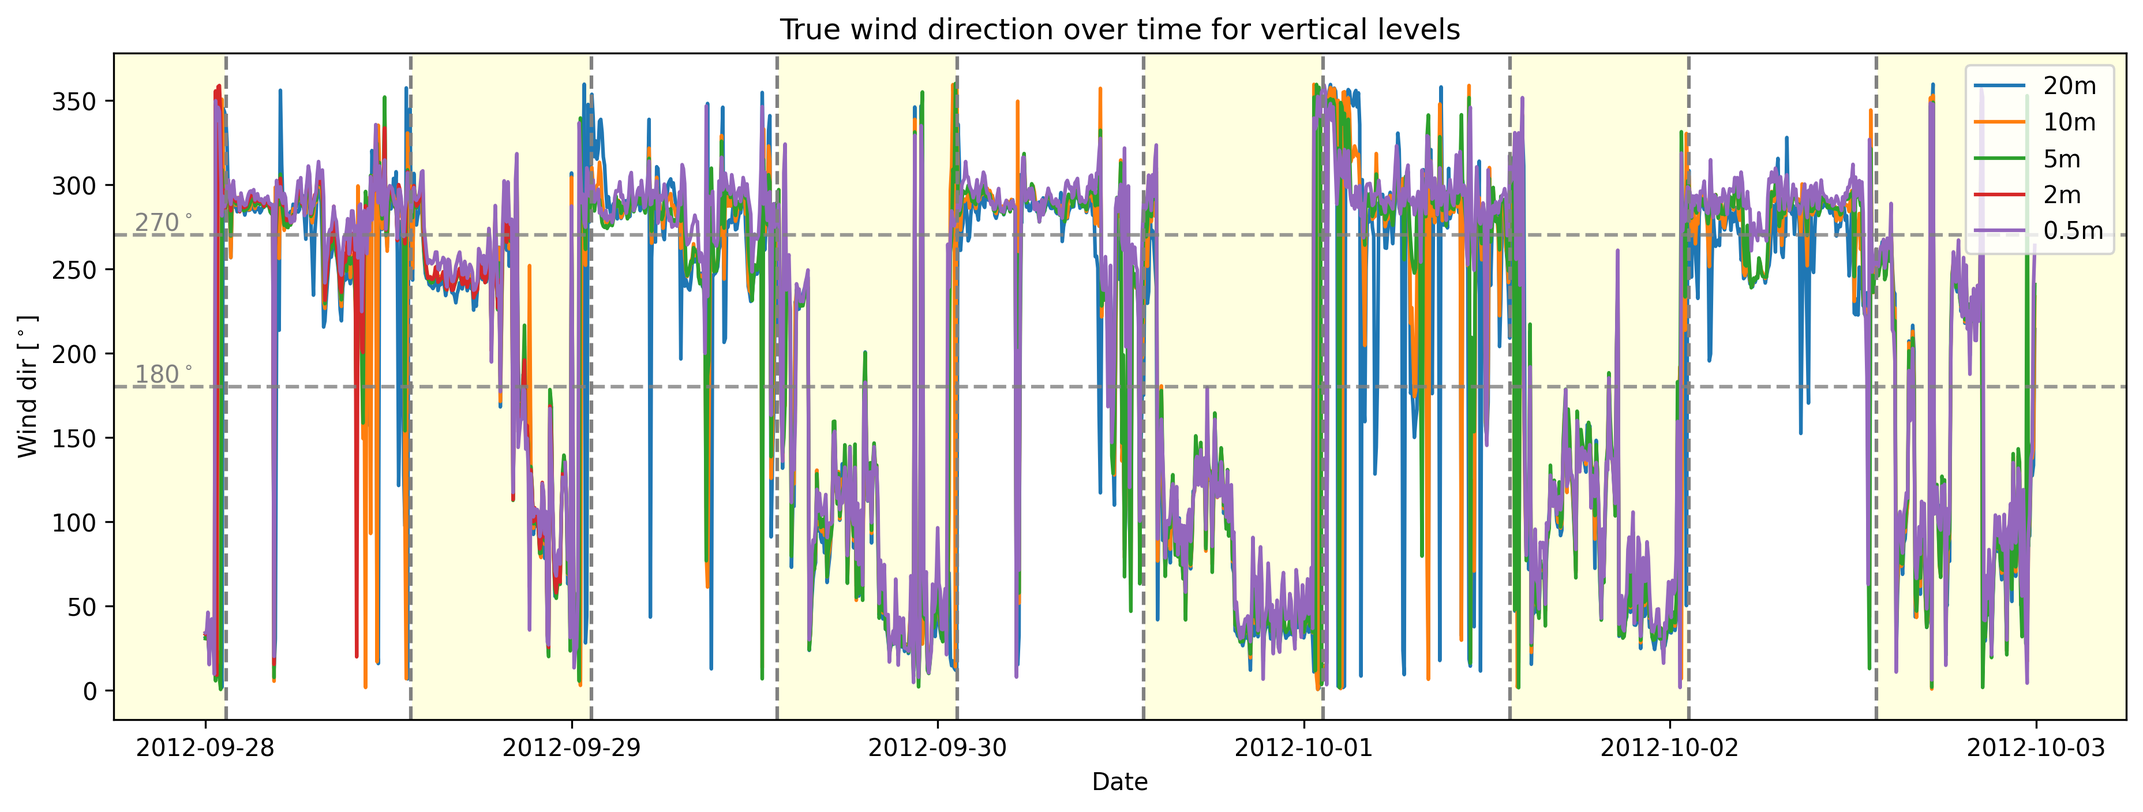
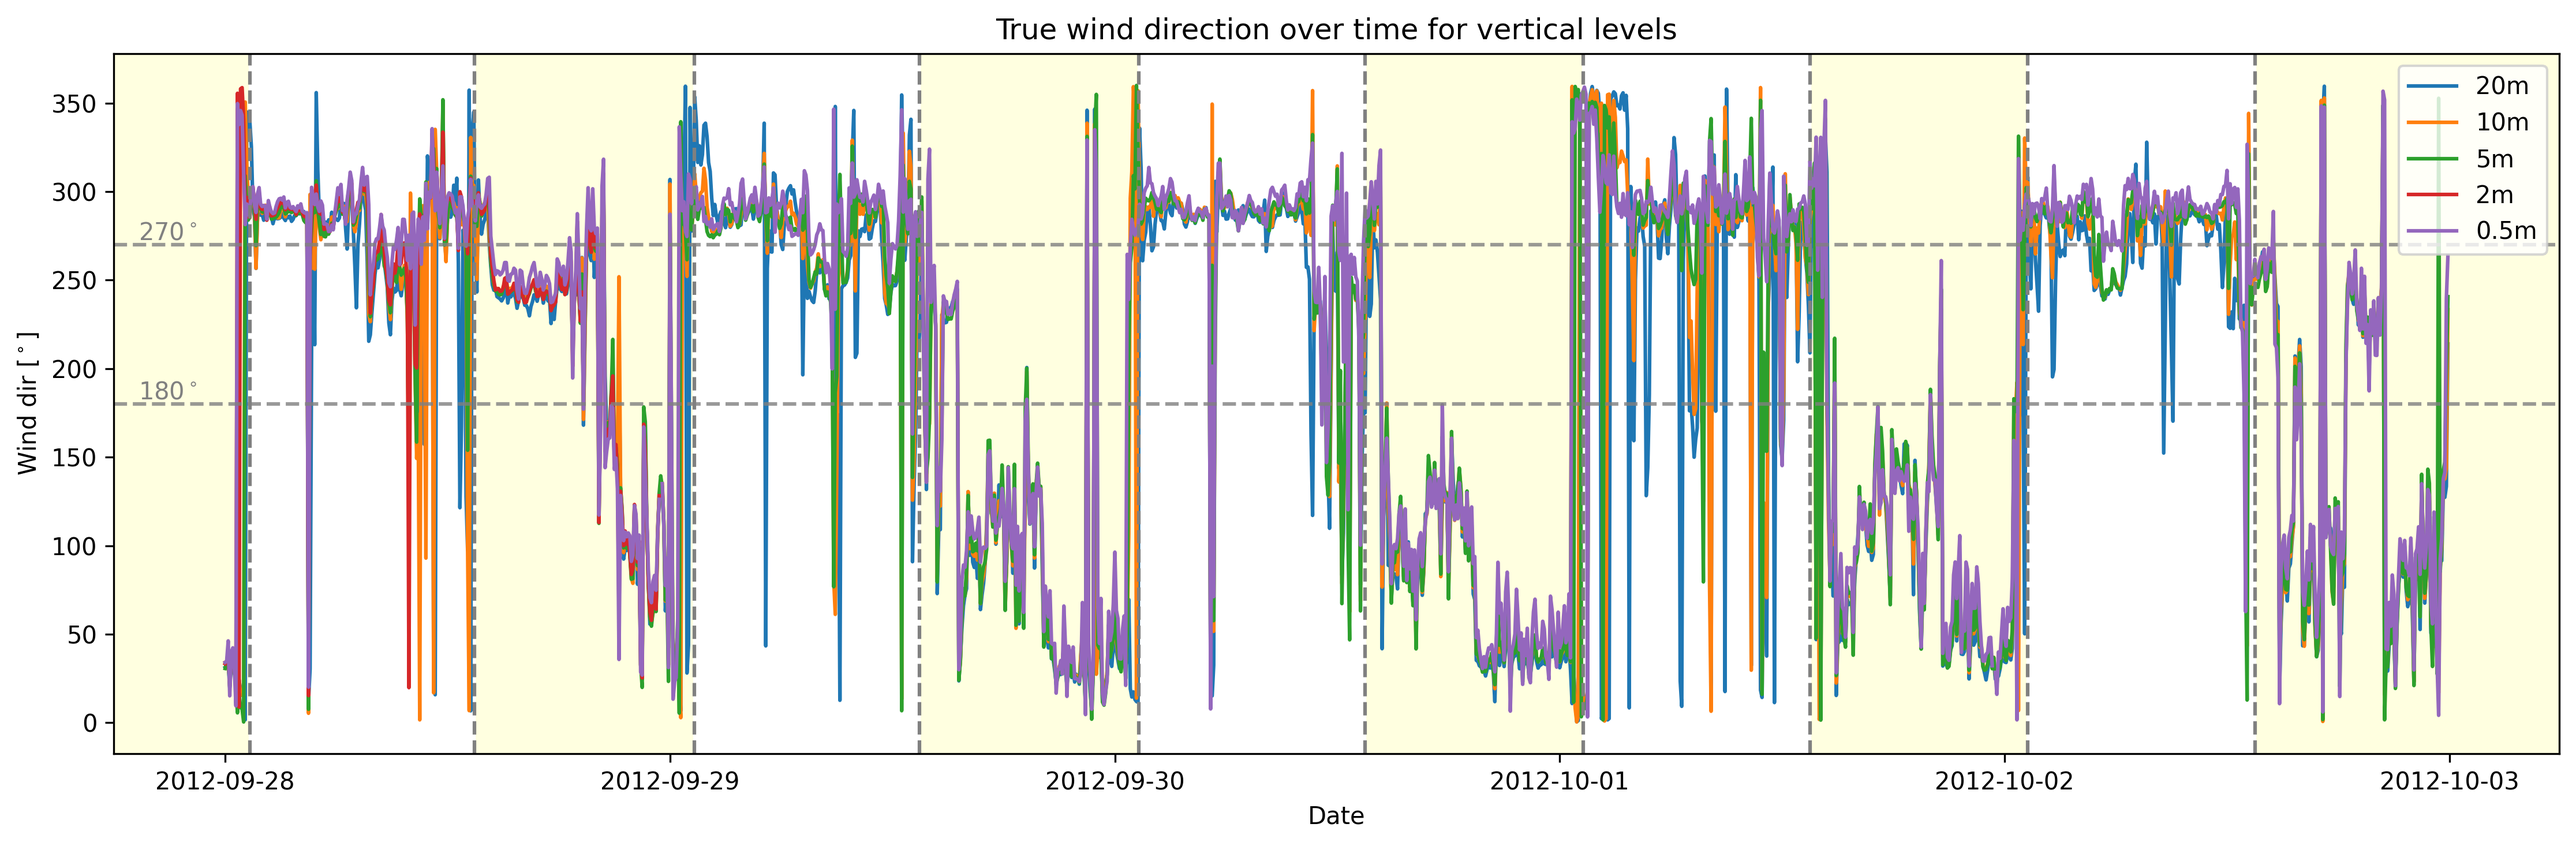
plot u'w'(n) every night and T'w'(n)

Changed region(s): [[0.0, 0.0, 0.9995, 0.9474], [0.4997, 0.9474, 0.531, 0.978]]

diff --git a/granite/plot.py b/granite/plot.py
@@ -98,8 +98,8 @@ for day in unique_days:
         'sunrise_local': sunrise_local,
         'sunset_local': sunset_local
     })
-#for item in sun_schedule:
-    #print(f"Giorno: {item['date']} | Sunrise: {item['sunrise_utc']} | Sunset: {item['sunset_utc']}")
+for item in sun_schedule:
+    print(f"Giorno: {item['date']} | Sunrise: {item['sunrise_utc']} | Sunset: {item['sunset_utc']}")
 
 ################################################## PLOT
 
@@ -145,22 +145,23 @@ plt.legend(loc='upper right')
 plt.title("True wind direction over time for vertical levels")
 plt.xlabel("Date")
 plt.ylabel("Wind dir [$^\circ$]")
+plt.tight_layout()
 plt.savefig("winddir_time.png", bbox_inches='tight', dpi=300)
 
 ############################################# select downslope regime
 number_of_day = 0 # 3^ giorno su 5
 sunset = sun_schedule[number_of_day]['sunset_utc']
 sunrise = sun_schedule[number_of_day]['sunrise_utc']
-print("Sunset UTC", sunset)
-print("Sunrise UTC", sunrise)
+#print("Sunset UTC", sunset)
+#print("Sunrise UTC", sunrise)
 
 nighttime_hour = (sunrise - sunset).total_seconds() / 3600
-print("nighttime (h)", nighttime_hour)
+#print("nighttime (h)", nighttime_hour)
 hours_start = 10
 time_start = sunset + datetime.timedelta(hours=hours_start)
 hours_end = 12
 time_end = sunset + datetime.timedelta(hours=hours_end)
-print("selected hours (h)", (time_end-time_start).total_seconds() / 3600)
+#print("selected hours (h)", (time_end-time_start).total_seconds() / 3600)
 
 wdir = all[ (all.index > time_start) & (all.index < time_end) ].copy()  #direzioni di interesse
 n_lines = len(wdir)
@@ -181,7 +182,101 @@ cbar = plt.colorbar(sm, ax=ax, label='Time since Sunset [h]')
 plt.title(f"Vertical wind speed profile from SS + {hours_start}h to SS + {hours_end}h")
 plt.xlabel("U [m/s]")
 plt.ylabel("n [m]")
+plt.tight_layout()
 plt.savefig(f"downU_{number_of_day}d_{hours_start}h_{hours_end}h.png", bbox_inches='tight', dpi=300)
+
+
+############################################# box U(n)
+dataset = [] # [ [0.5 2 5 10 20], [day 2], ...  ] divided by night
+for item in sun_schedule:
+    list = [] #all levels in one night
+    for i in range(5):
+        list.append( all[f'wsp_sn{i+1}'][ (all.index > item['sunset_utc']) & (all.index < item['sunrise_utc']) ])
+    dataset.append(list)
+
+all_u_night = [] #[0.5 2 5 10 20] for all night
+for i in range(5):
+    level_list = [] #all night, one level
+    for n_night in range(len(dataset)):
+        level_list.append(dataset[n_night][i])
+    all_u_night.append( pd.concat(level_list, axis=0).sort_index() )#df all night, one level
+dataset.append(all_u_night)
+
+fig, axes = plt.subplots(2,3,figsize=(10,8))
+for i, ax in enumerate(axes.flat):
+    ax.boxplot(dataset[i], positions=n, vert=False, widths=0.8)
+    ax.set_ylim(0,22)
+    ax.set_xlabel('U [m/s]')
+    ax.set_ylabel('n [m]')
+    if i == 5:
+        ax.set_title('All night')
+    else:
+        day = sun_schedule[i]['date']
+        ax.set_title(f'U(n) for {day} night')
+plt.tight_layout()
+plt.savefig(f"u_n_box.png", bbox_inches='tight', dpi=300)
+
+############################################# box u'w'
+dataset = [] # [ [0.5 2 5 10 20], [day 2], ...  ] divided by night
+for item in sun_schedule:
+    list = [] #all levels in one night
+    for i in range(5):
+        list.append( all[f'wu_cov_sn{i+1}'][ (all.index > item['sunset_utc']) & (all.index < item['sunrise_utc']) ])
+    dataset.append(list)
+
+all_u_night = [] #[0.5 2 5 10 20] for all night
+for i in range(5):
+    level_list = [] #all night, one level
+    for n_night in range(len(dataset)):
+        level_list.append(dataset[n_night][i])
+    all_u_night.append( pd.concat(level_list, axis=0).sort_index() )#df all night, one level
+dataset.append(all_u_night)
+
+fig, axes = plt.subplots(2,3,figsize=(10,8))
+for i, ax in enumerate(axes.flat):
+    ax.boxplot(dataset[i], positions=n, vert=False, widths=0.8)
+    ax.axvline(x=0, color='gray', linestyle='--')
+    ax.set_ylim(0,22)
+    ax.set_xlabel(r"$\overline{u'w'} [m^2/s^{-2}]$")
+    ax.set_ylabel('n [m]')
+    if i == 5:
+        ax.set_title('All night')
+    else:
+        day = sun_schedule[i]['date']
+        ax.set_title(f' {day} night')
+plt.tight_layout()
+plt.savefig(f"uw_box.png", bbox_inches='tight', dpi=300)
+
+############################################# box Ts'w'
+dataset = [] # [ [0.5 2 5 10 20], [day 2], ...  ] divided by night
+for item in sun_schedule:
+    list = [] #all levels in one night
+    for i in range(5):
+        list.append( all[f'wT_cov_sn{i+1}'][ (all.index > item['sunset_utc']) & (all.index < item['sunrise_utc']) ])
+    dataset.append(list)
+
+all_u_night = [] #[0.5 2 5 10 20] for all night
+for i in range(5):
+    level_list = [] #all night, one level
+    for n_night in range(len(dataset)):
+        level_list.append(dataset[n_night][i])
+    all_u_night.append( pd.concat(level_list, axis=0).sort_index() )#df all night, one level
+dataset.append(all_u_night)
+
+fig, axes = plt.subplots(2,3,figsize=(10,8))
+for i, ax in enumerate(axes.flat):
+    ax.boxplot(dataset[i], positions=n, vert=False, widths=0.8)
+    ax.axvline(x=0, color='gray', linestyle='--')
+    ax.set_ylim(0,22)
+    ax.set_xlabel(r"$\overline{T_s'w'} []$")
+    ax.set_ylabel('n [m]')
+    if i == 5:
+        ax.set_title('All night')
+    else:
+        day = sun_schedule[i]['date']
+        ax.set_title(f' {day} night')
+plt.tight_layout()
+plt.savefig(f"theta_w_box.png", bbox_inches='tight', dpi=300)
 
 #plt.show()
 
